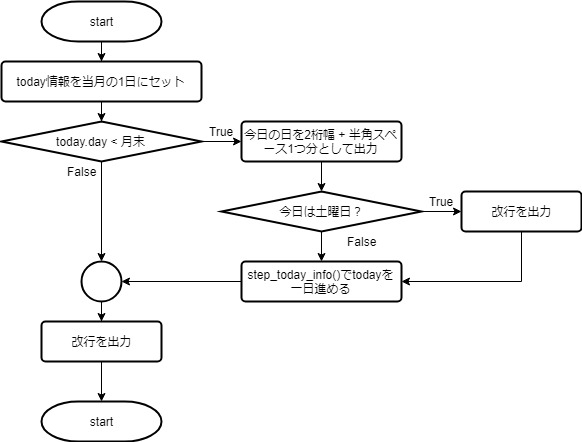
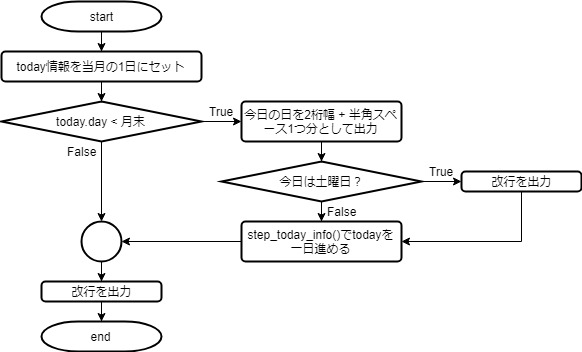
フローチャートのアップデート

Changed region(s): [[0.0, 0.0, 1.0, 1.0]]

diff --git a/lecture/prog_event_alert.md b/lecture/prog_event_alert.md
@@ -34,8 +34,6 @@
 - 祝日/プライベートイベント
   - 祝日/プライベートイベント一覧表に合致するエントリがある場合
 
-
-
 これらの内容を見て、
 
 - 1日から順番に月末までをイベント判定する為、常に最新の出勤日を保存しておく必要がある
@@ -111,8 +109,6 @@ event_info_2019[][ EVENT_ITEM_MAX ] = {
 - 無効データ( nullptr )
   - 指定日はイベント日ではありません。返り値は無効ポインタです
 
-
-
 具体的なコードは以下の通りです。引数にconstが付いていますが、これは**この関数内で引数で渡したデータが書き換えられない**事を示すものです。(constが無ければ**引数で渡したデータが関数内で変更出来てしまう**為、関数の設計意図を示す為constを付けるのがセオリーです。
 
 ```cpp
@@ -139,6 +135,10 @@ check_event_day( const TodayInfo *today )
     return event;
 } // check_event_day()
 ```
+
+フローチャートについても紹介しておきます
+
+![search_event_list](./picture/search_event_list.flow.jpg)
 
 ### 休日判定( check_holiday() )
 
@@ -295,7 +295,8 @@ print_no_overtime( const TodayInfo *start, int eom )
     // 給料日の定時退社判定
     if( today.day == SALARY_DAY )
     {
--        results_days.insert( today.day );
+-        printf( "%2d日\n", today.day );
++        results_days.insert( today.day );
     }
 
 @@@ 中略
